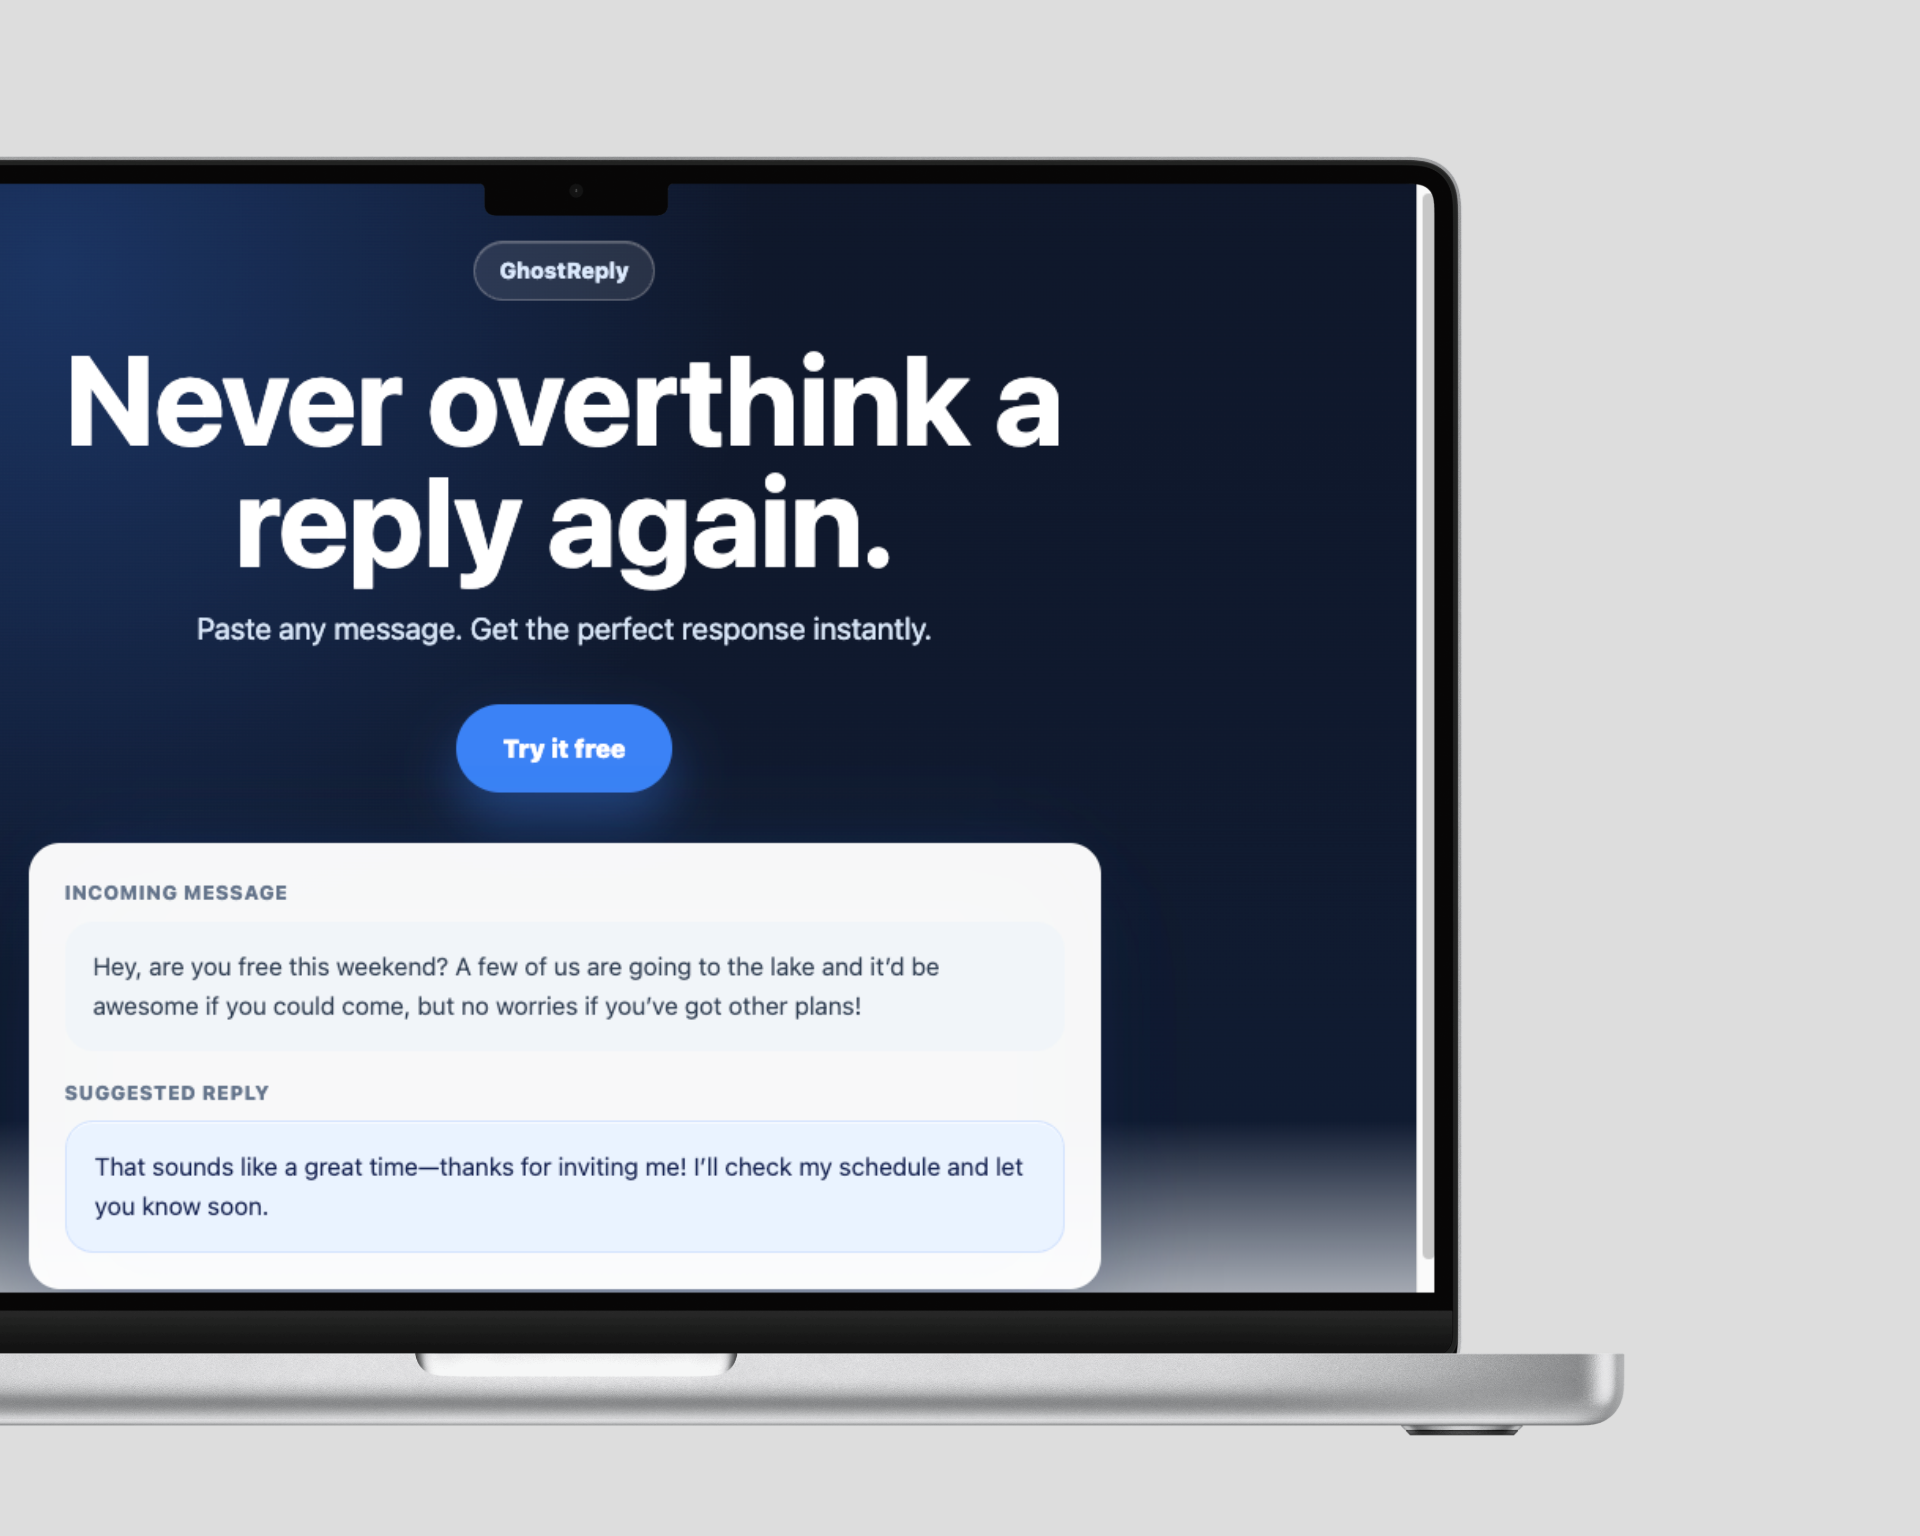
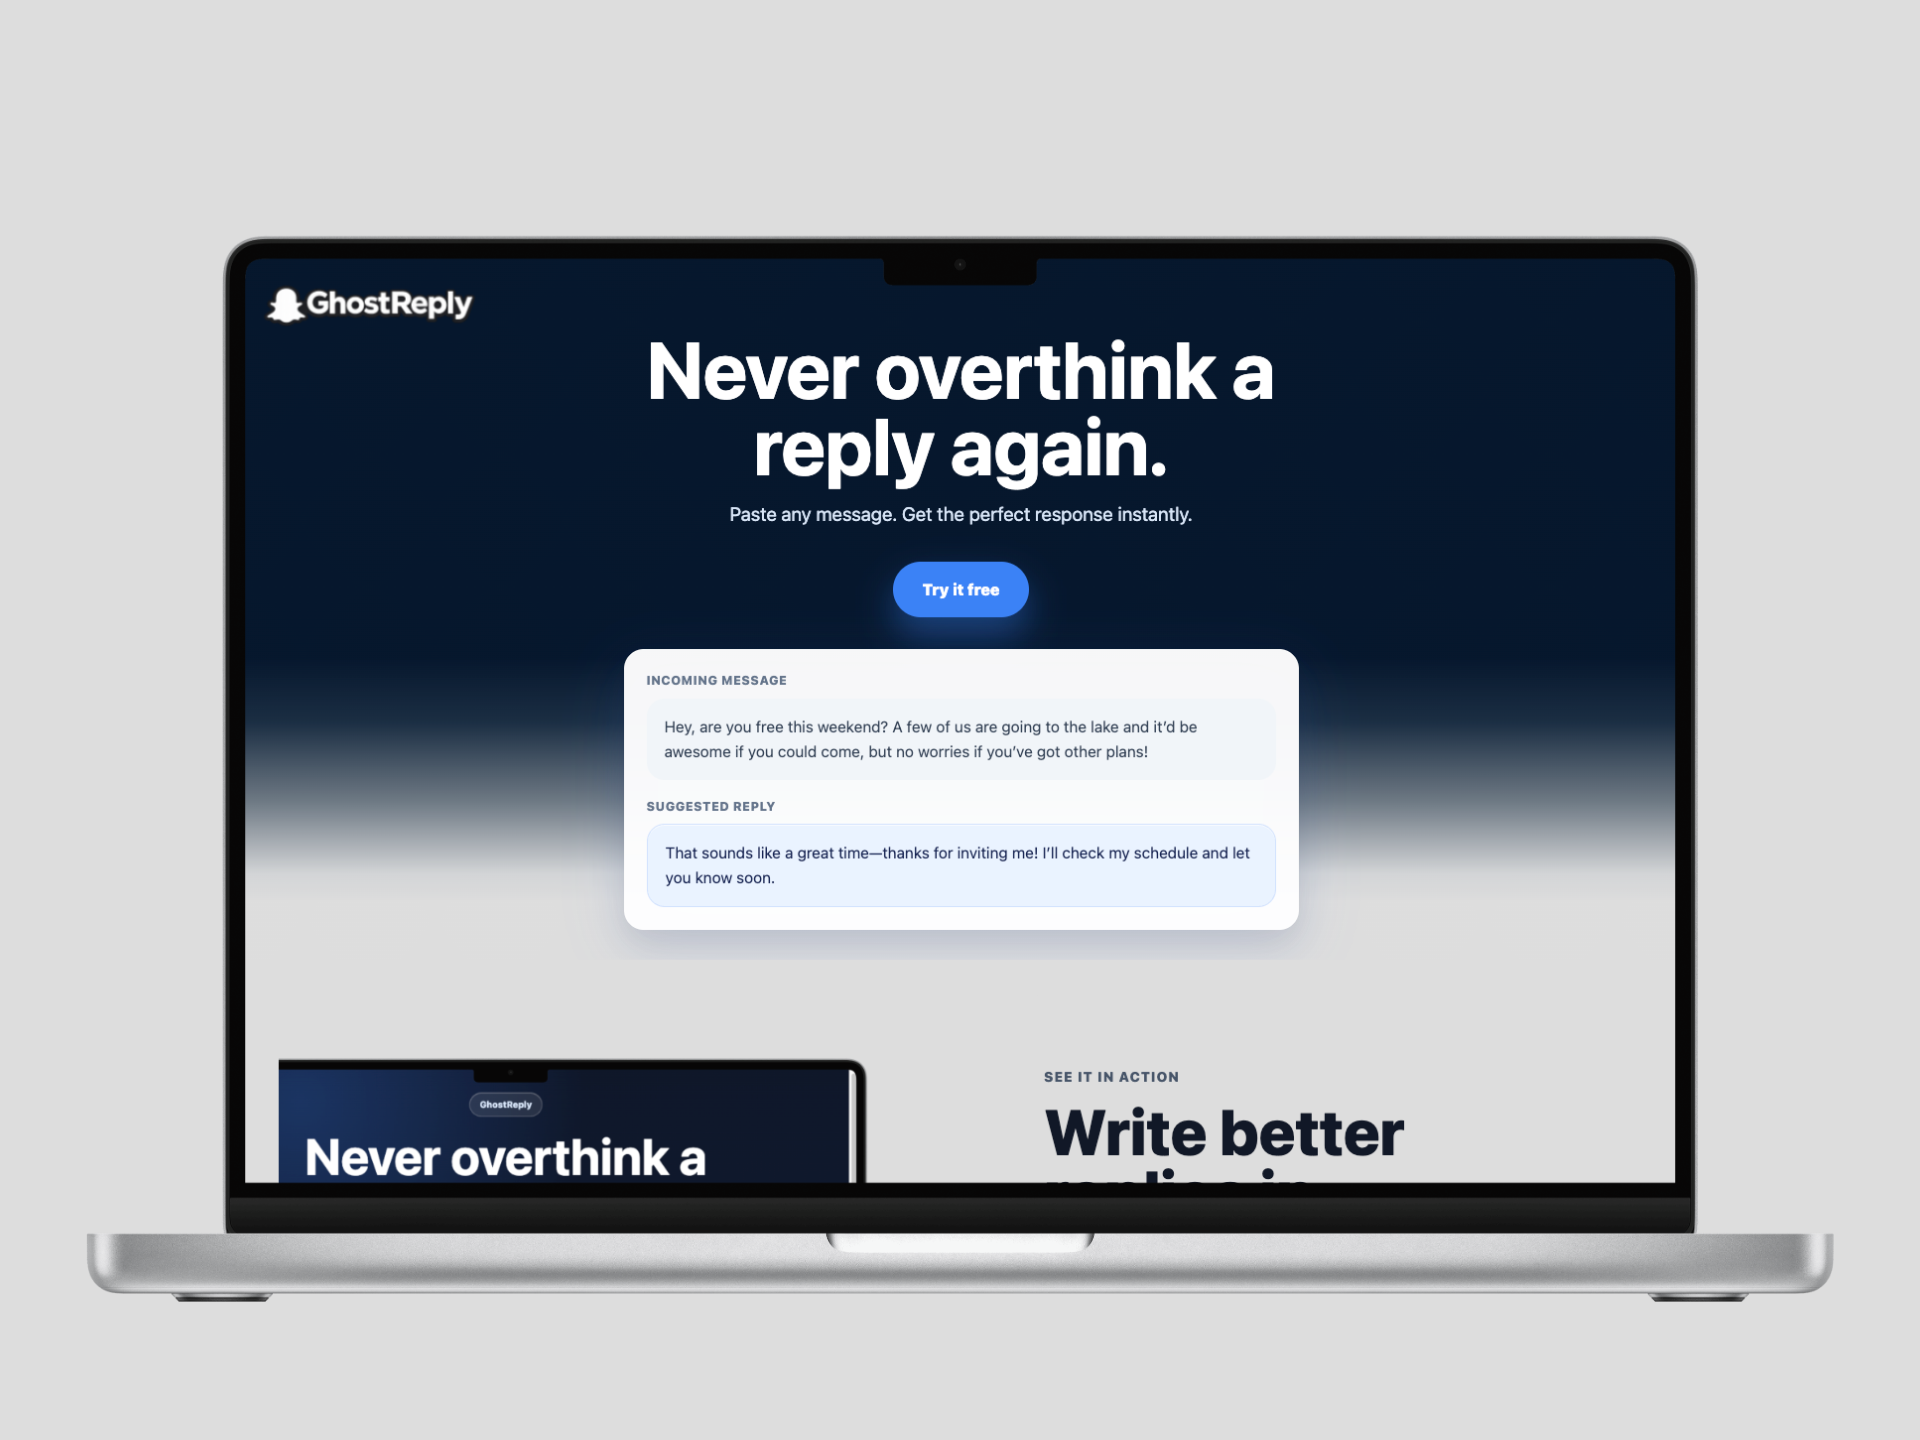
final UI upgrades

diff --git a/index.html b/index.html
@@ -202,7 +202,7 @@
       width: min(100%, 680px);
       margin: 32px auto 0;
       animation: fadeUp 250ms ease 90ms both;
-      filter: drop-shadow(0 18px 28px rgba(59, 130, 246, 0.12));
+      filter: drop-shadow(0 8px 14px rgba(59, 130, 246, 0.07));
     }
 
     .preview-wrap::before {
@@ -284,7 +284,7 @@
       opacity: 0;
       transform: translateY(12px);
       animation: fadeUp 420ms ease 80ms forwards;
-      margin-left: min(0px, calc((1260px - 100vw) / 2 + 24px));
+      margin-left: min(28px, calc((1260px - 100vw) / 2 + 72px));
     }
 
     .mockup-image {
@@ -448,6 +448,37 @@
       color: var(--accent-dark);
     }
 
+    .legal-sections {
+      display: grid;
+      grid-template-columns: repeat(2, minmax(0, 1fr));
+      gap: 18px;
+      width: min(100%, 860px);
+      margin: 0 auto;
+      padding: 0 20px 38px;
+      background: #f8fafc;
+    }
+
+    .legal-card {
+      padding: 22px;
+      border: 1px solid rgba(15, 23, 42, 0.08);
+      border-radius: 18px;
+      background: #ffffff;
+      color: #475569;
+      text-align: left;
+    }
+
+    .legal-card h3 {
+      margin: 0 0 8px;
+      color: #0f172a;
+      font-size: 1rem;
+    }
+
+    .legal-card p {
+      margin: 0;
+      font-size: 0.92rem;
+      line-height: 1.55;
+    }
+
     body.is-app-view .footer {
       border-top-color: rgba(255, 255, 255, 0.08);
       background: #06172d;
@@ -460,6 +491,10 @@
 
     body.is-app-view .footer a:hover {
       color: #ffffff;
+    }
+
+    body.is-app-view .legal-sections {
+      display: none;
     }
 
     .app-shell {
@@ -486,8 +521,10 @@
 
     body.is-app-view {
       background:
-        radial-gradient(circle at 18% 0%, rgba(59, 130, 246, 0.22), transparent 32rem),
-        linear-gradient(to bottom, #06172d 0%, #0b2340 58%, #102f52 100%);
+        radial-gradient(circle at 18% 4%, rgba(59, 130, 246, 0.26), transparent 28rem),
+        radial-gradient(circle at 88% 18%, rgba(14, 165, 233, 0.12), transparent 26rem),
+        radial-gradient(circle at 50% 110%, rgba(243, 234, 220, 0.16), transparent 34rem),
+        linear-gradient(135deg, #06172d 0%, #0a2545 42%, #123d66 72%, #0a2746 100%);
     }
 
     .card {
@@ -825,6 +862,11 @@
         justify-content: flex-start;
       }
 
+      .legal-sections {
+        grid-template-columns: 1fr;
+        padding: 0 14px 30px;
+      }
+
       .cta,
       .generate,
       .small-button {
@@ -996,11 +1038,23 @@
       </div>
     </section>
 
+    <div class="legal-sections" aria-label="About and privacy information">
+      <section class="legal-card" id="about">
+        <h3>About GhostReply</h3>
+        <p>GhostReply helps you draft clear, natural replies for texts, emails, work messages, and everyday conversations.</p>
+      </section>
+
+      <section class="legal-card" id="privacy">
+        <h3>Privacy</h3>
+        <p>GhostReply does not require a login or database. Messages are sent only to generate a reply through the secure backend.</p>
+      </section>
+    </div>
+
     <footer class="footer">
       <span>© Elliott Smith 2026</span>
       <a href="mailto:[email redacted]" aria-label="Contact">Contact</a>
-      <a href="#" aria-label="About">About</a>
-      <a href="#" aria-label="Privacy">Privacy</a>
+      <a href="#about" aria-label="About">About</a>
+      <a href="#privacy" aria-label="Privacy">Privacy</a>
     </footer>
   </main>
 